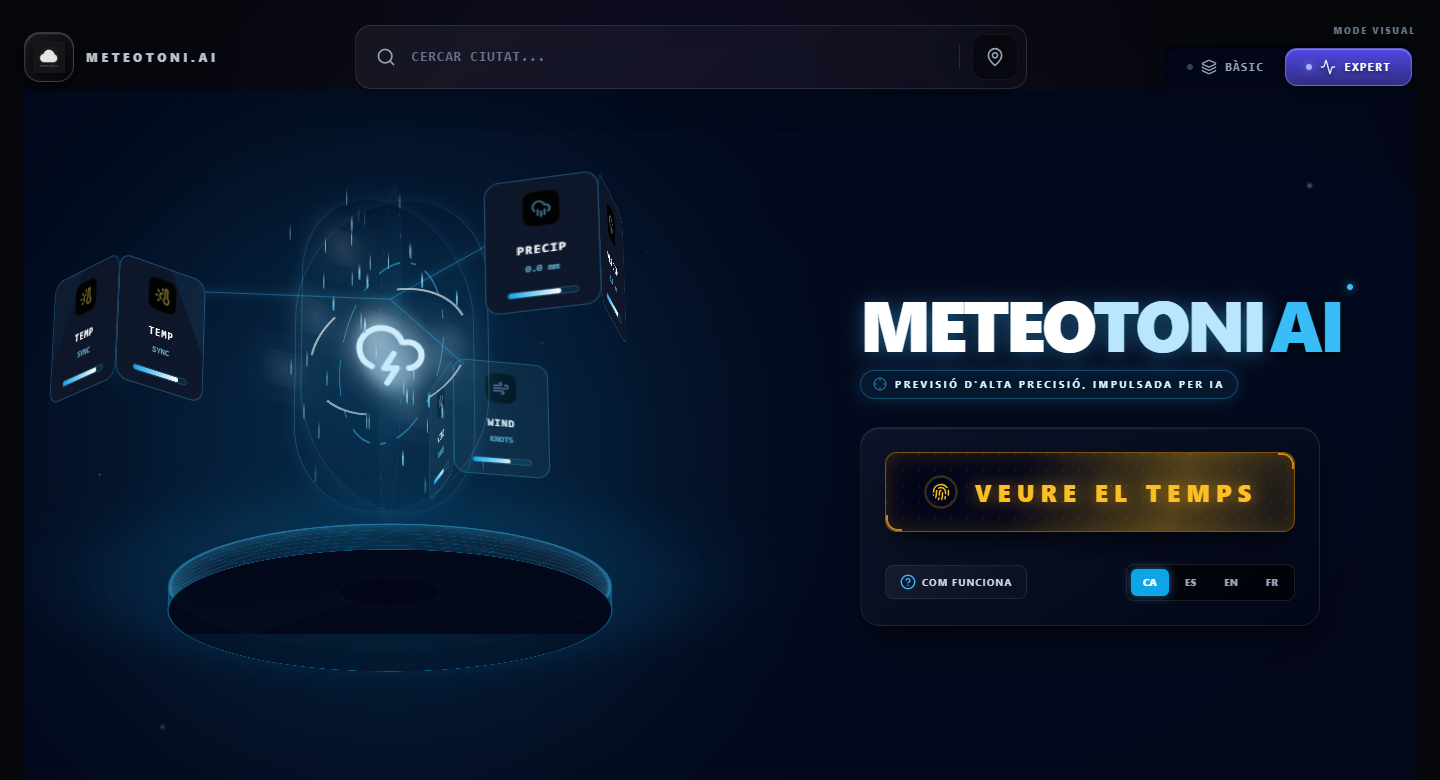
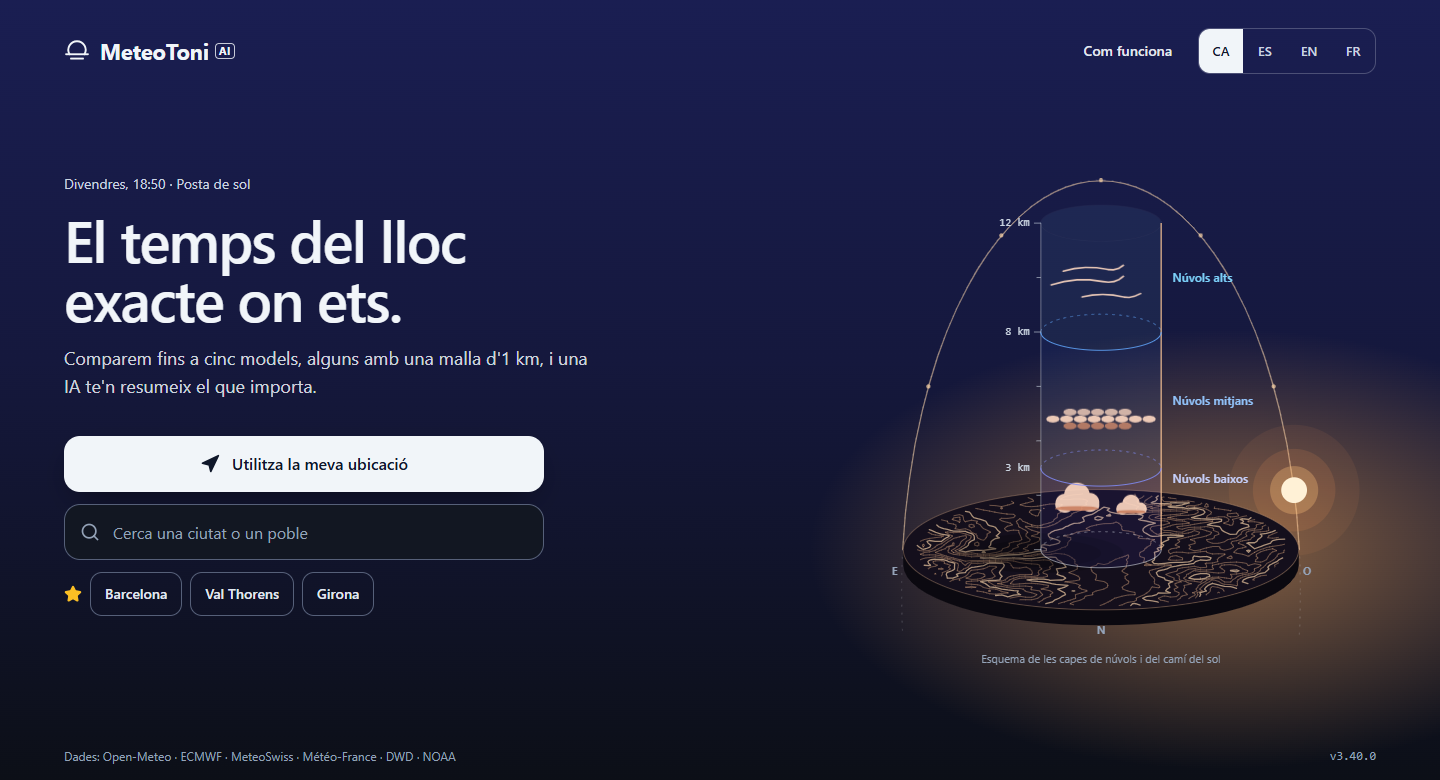
docs(readme): captura nova de la pantalla d'inici (la columna del cel)
screenshot-desktop.png encara era l'holograma antic. És la captura de la
pantalla d'inici del README, la "wide" del manifest de la PWA i l'og:image
/twitter:image. Ara és la benvinguda nova a la posta (1440×780, la mateixa
mida, PNG sense pèrdua). Peu de foto del README nou i l'etiqueta del
manifest passa de "Panell de control" a "Pantalla d'inici".

diff --git a/vite.config.js b/vite.config.js
@@ -83,7 +83,7 @@ export default defineConfig({
             sizes: '1440x780', //[cite: 3]
             type: 'image/png', //[cite: 3]
             form_factor: 'wide', //[cite: 3]
-            label: 'Panell de control' //[cite: 3]
+            label: "Pantalla d'inici" //[cite: 3]
           }
         ]
       }

diff --git a/README.md b/README.md
@@ -27,7 +27,7 @@ MeteoToni AI és exclusivament una eina d'informació analítica. Proporciona da
 
 <div align="center">
   <img src="./public/screenshot-desktop.png" alt="Pantalla d'Inici Escriptori" width="800" style="border-radius: 10px; box-shadow: 0 4px 15px rgba(56,189,248,0.2);">
-  <p><em>La pantalla d'inici amb disseny Spatial UI i Neo-Skeuomorfisme, punt de partida per cercar qualsevol ubicació del món.</em></p>
+  <p><em>La pantalla d'inici: la columna del cel, amb el cel del lloc on és el dispositiu (aquí, la posta de sol), i la ubicació, el cercador i els favorits per començar des de qualsevol lloc del món.</em></p>
 </div>
 
 <br/>
